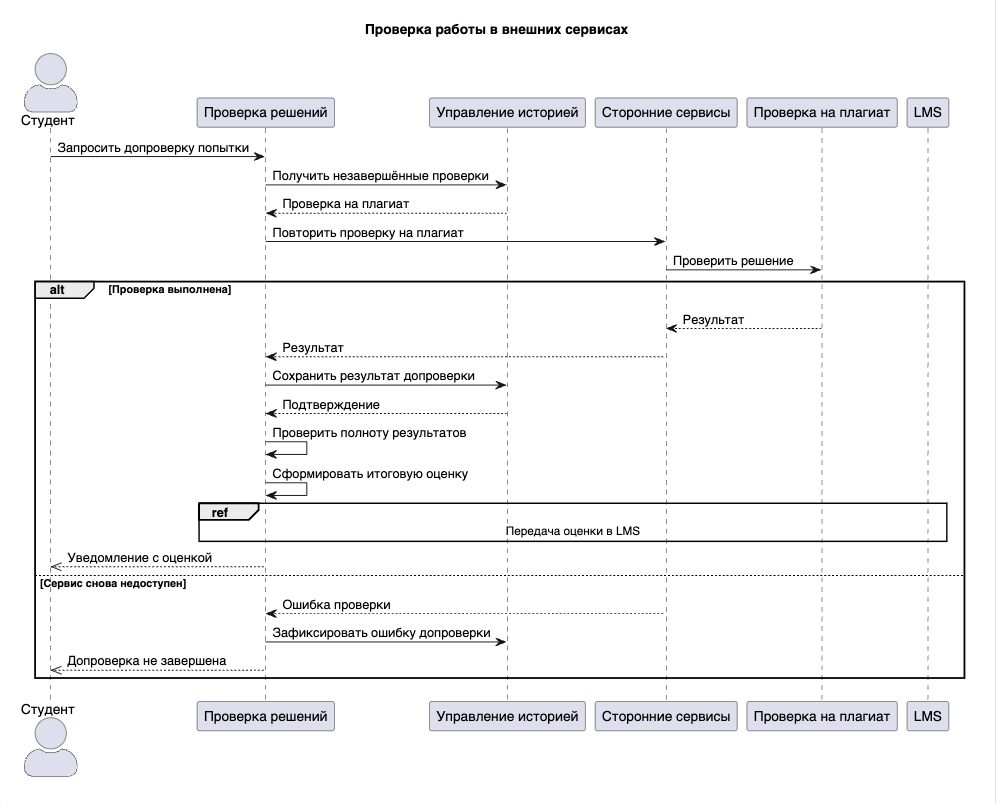
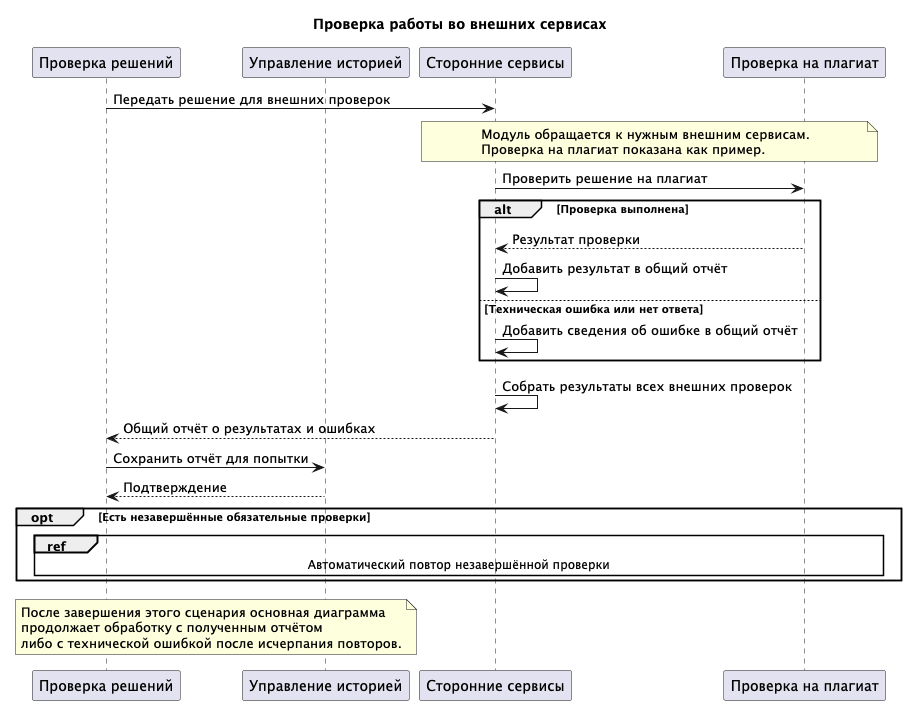
hw3

Changed region(s): [[0.0, 0.0309, 1.0, 0.9902]]

diff --git a/HW3/diagram_code.md b/HW3/diagram_code.md
@@ -1,4 +1,4 @@
-# Диаграмма сценария
+# Диаграммы сценария
 
 ```plantuml
 @startuml
@@ -9,6 +9,7 @@ actor "Студент" as Student
 
 box "Внутренние модули" #LightBlue
     participant "Проверка решений" as Check
+    participant "Управление заданиями" as Tasks
     participant "Управление историей" as History
     participant "Сторонние сервисы" as External
 end box
@@ -17,99 +18,95 @@ participant "Проверка на плагиат" as Pl
 participant "LMS" as LMS
 
 Student -> Check : Работа на проверку
-
-Check -> Check : Проверка дедлайна
+Check -> Tasks : Получить дедлайн и критерии задания
+Tasks --> Check : Дедлайн и версия критериев
+Check -> Check : Проверить дедлайн
 
 alt Дедлайн не наступил
-    Check -> History : Зафиксировать принятую попытку
+    Check -> History : Сохранить попытку и версию критериев
     History --> Check : Попытка сохранена
-
     Check --> Student : Работа принята на проверку
 
     Check ->> Check : Запустить фоновую проверку
 
     group Фоновая проверка
         Check -> Check : Проверить по критериям
-        Check -> External : Выполнить внешние проверки
+        Check -> History : Сохранить результаты тестов
+        History --> Check : Подтверждение
 
-        External -> Pl : Проверить решение
-
-        alt Проверка выполнена
-		    Pl --> External : Результат проверки
-		else Сервис недоступен
-		    note over External, Pl
-		        Ограниченные повторные попытки
-		        при временных ошибках
-		    end note
-		end
-
-        External --> Check : Результаты проверок\nи сведения об ошибках
+        ref over Check, History, External, Pl
+            Проверка работы во внешних сервисах
+        end ref
 
         alt Все обязательные проверки завершены
-		    Check -> Check : Рассчитать оценку
-		    Check -> History : Сохранить результат и оценку
+            Check -> Check : Рассчитать оценку
+            Check -> History : Сохранить результат и оценку
+            History --> Check : Подтверждение
+            Check -->> Student : Уведомить о результате проверки
 
-			ref over Check, History, LMS
-		        Передача оценки в LMS
-		    end ref
-		else Обязательная проверка не выполнена
-		    Check -> History : Сохранить сведения о технической ошибке
-		    note over Check
-		        Итоговая оценка пока
-		        не формируется
-		    end note
-		end
-
-        History --> Check : Подтвердить сохранение
-        Check -->> Student : Уведомить о результате
+            ref over Check, History, LMS
+                Передача оценки в LMS
+            end ref
+        else Проверка не завершена, повторы исчерпаны
+            Check -> History : Сохранить статус технической ошибки
+            History --> Check : Подтверждение
+            Check -->> Student : Проверка не завершена. Причина ошибки
+        end
     end
 
 else Дедлайн наступил
     Check --> Student : Отказ в приёме работы
 end
+
+note over Student, Check
+    После окончательной технической ошибки студент
+    может отправить работу заново только до дедлайна.
+    Такая отправка создаёт новую попытку.
+end note
 @enduml
 ```
 
 ```plantuml
 @startuml
-title Проверка работы в внешних сервисах
-skinparam actorStyle awesome
-actor "Студент" as Student
+title Проверка работы во внешних сервисах
 
 participant "Проверка решений" as Check
 participant "Управление историей" as History
 participant "Сторонние сервисы" as External
 participant "Проверка на плагиат" as Pl
 
-Student -> Check : Запросить допроверку попытки
+Check -> External : Передать решение для внешних проверок
 
-Check -> History : Получить незавершённые проверки
-History --> Check : Проверка на плагиат
+note over External, Pl
+    Модуль обращается к нужным внешним сервисам.
+    Проверка на плагиат показана как пример.
+end note
 
-Check -> External : Повторить проверку на плагиат
-External -> Pl : Проверить решение
+External -> Pl : Проверить решение на плагиат
 
 alt Проверка выполнена
-    Pl --> External : Результат
-    External --> Check : Результат
-
-    Check -> History : Сохранить результат допроверки
-    History --> Check : Подтверждение
-
-    Check -> Check : Проверить полноту результатов
-    Check -> Check : Сформировать итоговую оценку
-
-	ref over Check, History, LMS
-        Передача оценки в LMS
-    end ref
-
-    Check -->> Student : Уведомление с оценкой
-
-else Сервис снова недоступен
-    External --> Check : Ошибка проверки
-    Check -> History : Зафиксировать ошибку допроверки
-    Check -->> Student : Допроверка не завершена
+    Pl --> External : Результат проверки
+    External -> External : Добавить результат в общий отчёт
+else Техническая ошибка или нет ответа
+    External -> External : Добавить сведения об ошибке в общий отчёт
 end
+
+External -> External : Собрать результаты всех внешних проверок
+External --> Check : Общий отчёт о результатах и ошибках
+Check -> History : Сохранить отчёт для попытки
+History --> Check : Подтверждение
+
+opt Есть незавершённые обязательные проверки
+    ref over Check, History, External, Pl
+        Автоматический повтор незавершённой проверки
+    end ref
+end
+
+note over Check, History
+    После завершения этого сценария основная диаграмма
+    продолжает обработку с полученным отчётом
+    либо с технической ошибкой после исчерпания повторов.
+end note
 @enduml
 ```
 
@@ -121,27 +118,85 @@ participant "Проверка решений" as Check
 participant "Управление историей" as History
 participant "LMS" as LMS
 
-Check -> LMS : Передать итоговую оценку
+Check -> History : Получить сохранённую оценку, ожидающую передачи
+History --> Check : Оценка и состояние передачи
 
-alt LMS подтвердила сохранение
-    LMS --> Check : Оценка сохранена
-    Check -> History : Зафиксировать успешную передачу
-    History --> Check : Подтверждение
+loop Пока передача не подтверждена
+    Check -> LMS : Передать итоговую оценку
 
-else LMS вернула ошибку
-    LMS --> Check : Ошибка
-    Check -> History : Зафиксировать необходимость повтора
-    History --> Check : Подтверждение
+    alt LMS подтвердила сохранение
+        LMS --> Check : Оценка сохранена
+        Check -> History : Зафиксировать успешную передачу
+        History --> Check : Подтверждение
+    else LMS вернула ошибку
+        LMS --> Check : Ошибка
+        Check -> History : Сохранить необходимость повтора
+        History --> Check : Подтверждение
+        Check -> Check : Выждать перед автоматическим повтором
+    else Истекло время ожидания
+        note over Check, LMS
+            Неизвестно, сохранила ли LMS оценку.
+            Повторная передача не должна создавать дубли.
+        end note
 
-else Истекло время ожидания
-    note over Check, LMS
-        Неизвестно, сохранила ли LMS оценку.
-        Перед повторной отправкой необходимо
-        исключить дублирование.
+        Check -> History : Сохранить неподтверждённую передачу
+        History --> Check : Подтверждение
+        Check -> Check : Выждать перед автоматическим повтором
+    end
+end
+
+note over Check, History
+    Повторяется передача сохранённой оценки.
+    Заново отправлять и проверять работу не требуется.
+end note
+@enduml
+```
+
+```plantuml
+@startuml
+title Автоматический повтор незавершённой проверки
+
+participant "Проверка решений" as Check
+participant "Управление историей" as History
+participant "Сторонние сервисы" as External
+participant "Проверка на плагиат" as Pl
+
+Check -> History : Получить принятую попытку и состояние проверок
+History --> Check : Решение, сохранённый отчёт и число повторов
+
+note over Check, History
+    Повторы выполняются автоматически в рамках той же попытки.
+    Обработка принятой работы может продолжаться после дедлайна.
+end note
+
+loop Пока есть незавершённые обязательные проверки и остались повторы
+    Check -> Check : Выждать перед повтором
+    Check -> External : Передать решение и отчёт для повторной внешней проверки
+
+    note over External, Pl
+        Модуль повторяет только незавершённые проверки.
+        Проверка на плагиат показана как пример.
     end note
 
-    Check -> History : Зафиксировать неподтверждённую передачу
+    External -> Pl : Повторить проверку на плагиат
+
+    alt Проверка выполнена
+        Pl --> External : Результат проверки
+        External -> External : Обновить результат в общем отчёте
+    else Техническая ошибка или нет ответа
+        External -> External : Обновить сведения об ошибке в общем отчёте
+    end
+
+    External -> External : Объединить результаты повторов с сохранёнными результатами
+    External --> Check : Обновлённый общий отчёт
+    Check -> History : Сохранить отчёт и число повторов
     History --> Check : Подтверждение
 end
+
+note over Check, History
+    Отчёт используется в основном сценарии.
+    Если повторы исчерпаны, итоговая оценка не формируется,
+    студенту сообщается о технической ошибке.
+end note
 @enduml
 ```

diff --git a/HW3/diagram_image.md b/HW3/diagram_image.md
@@ -1,3 +1,6 @@
+# Диаграмма сценария
+
 ![](./1.png)
 ![](./2.png)
 ![](./3.png)
+![](./4.png)
